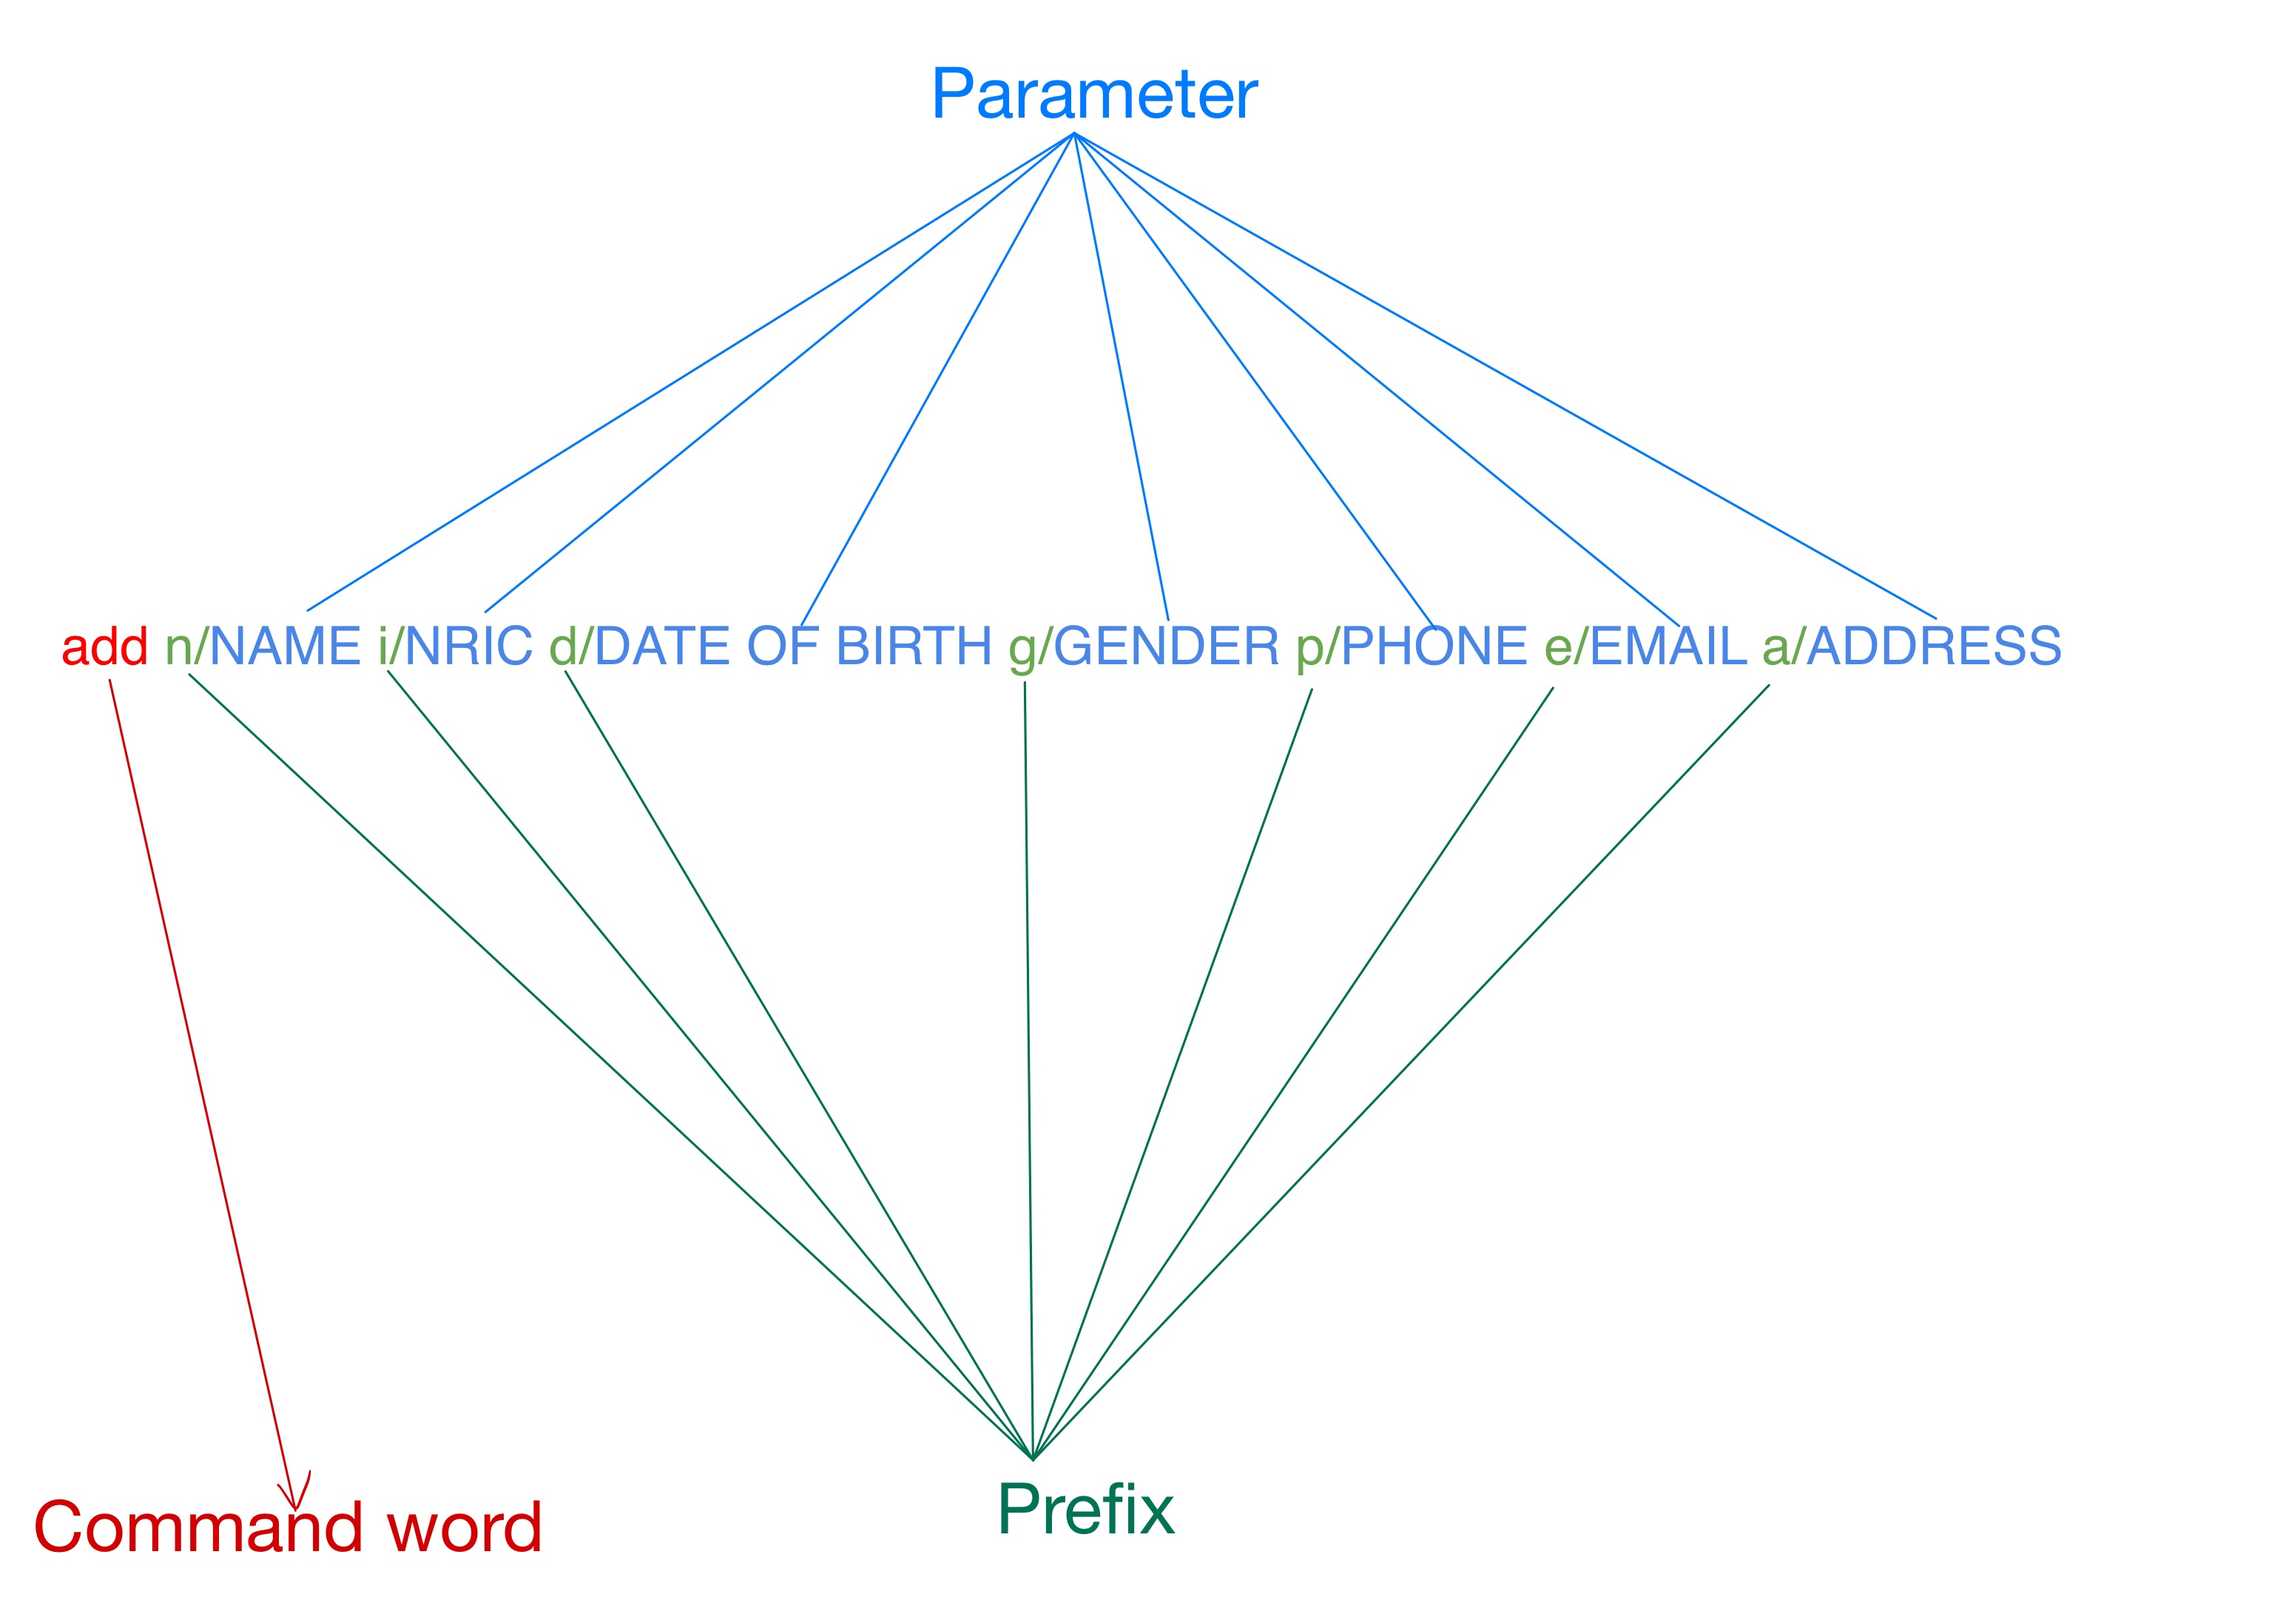
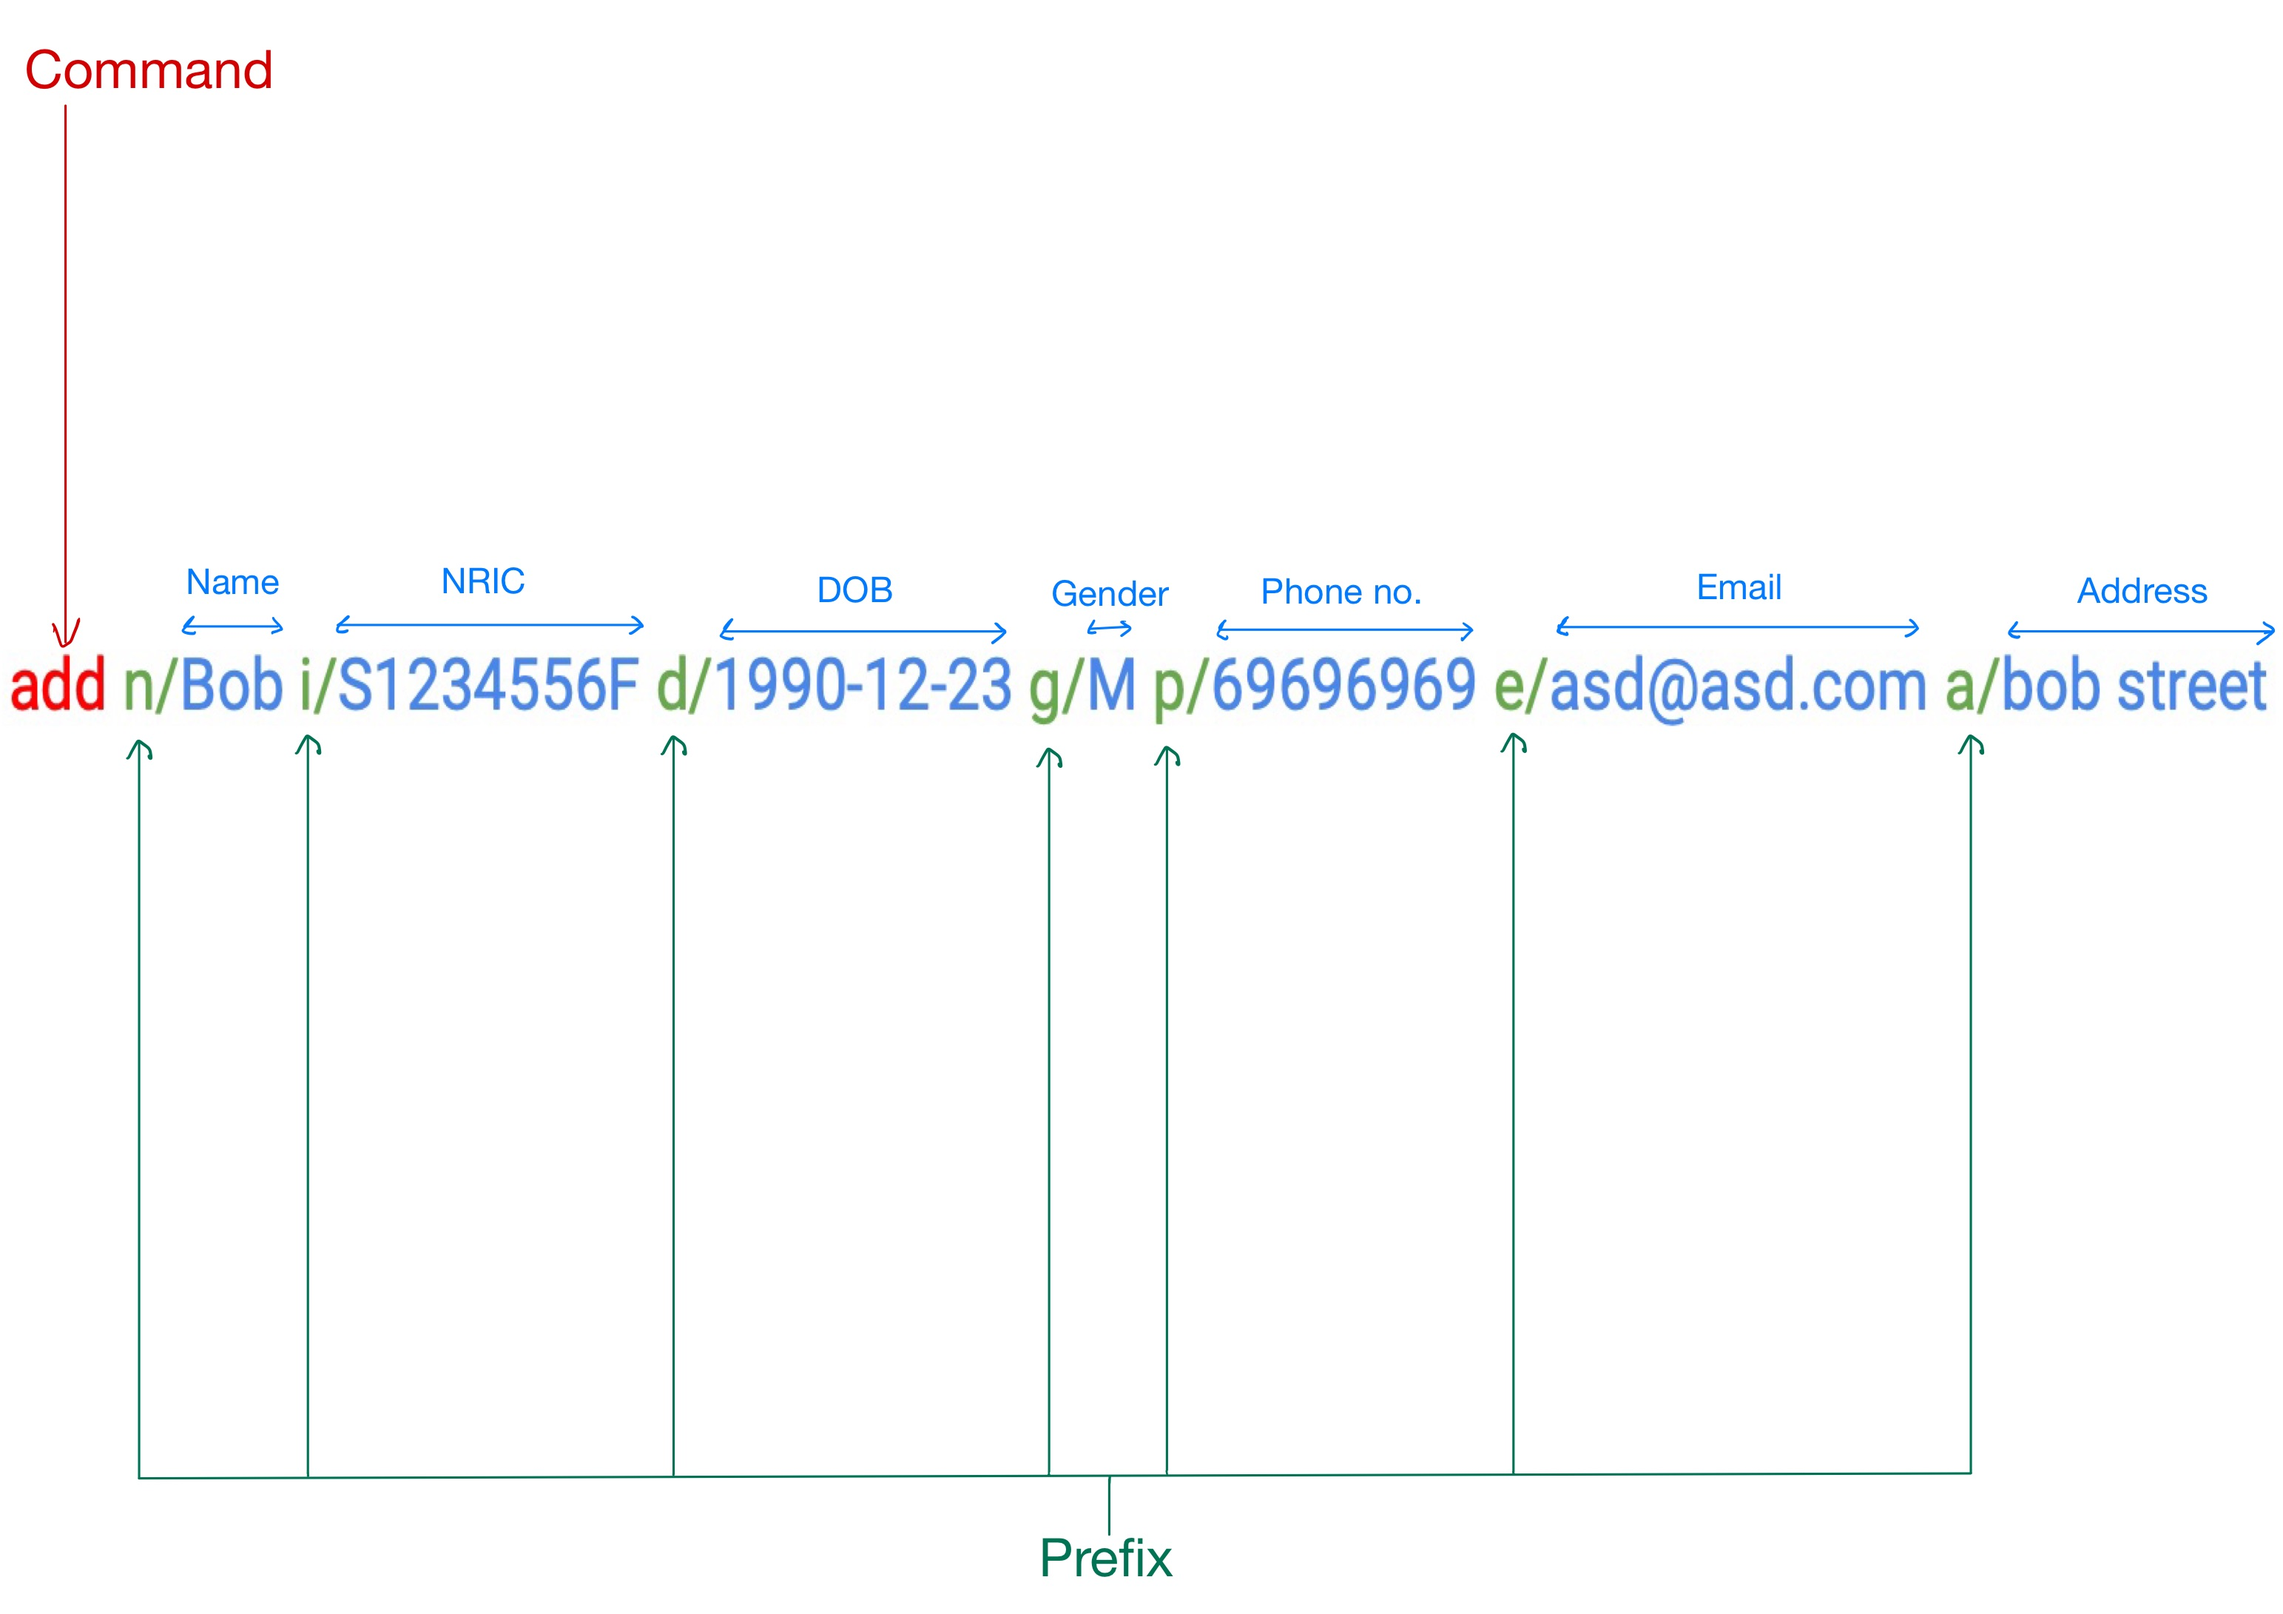
Update overview diagrams
update overview diagrams to improve
UG readab8ility

diff --git a/docs/UserGuide.md b/docs/UserGuide.md
@@ -150,17 +150,24 @@ MediBase3 can be controlled using commands in the **Command Line Interface (CLI)
 
 #### CLI Command Structure
 
-Each command follows this structure:
+Each command in MediBase3 follows a structured format to ensure consistency and ease of use.
+
+The example below demonstrates this structure:
 
 ![CommandPromptFormat.jpg](images/CommandPromptFormat.jpg)
 
-Here’s a breakdown of the parts:
+This example shows how a typical command might look in MediBase3, with three main components:
 
 | **Component** | **Description**                                         |
 |---------------|---------------------------------------------------------|
 | **Command**   | The action you want to perform (e.g., `add`, `edit`)    |
 | **Prefix**    | Identifies the data being entered (e.g., `n/` for name) |
 | **Parameter** | The value associated with the prefix (e.g., `John Doe`) |
+
+{: .alert .alert-info}
+> :information_source: **Note:**
+>
+> * This example is provided to give a general idea of the command structure. Actual commands may vary depending on the specific action and data required.
 
 #### Example:
 >```
